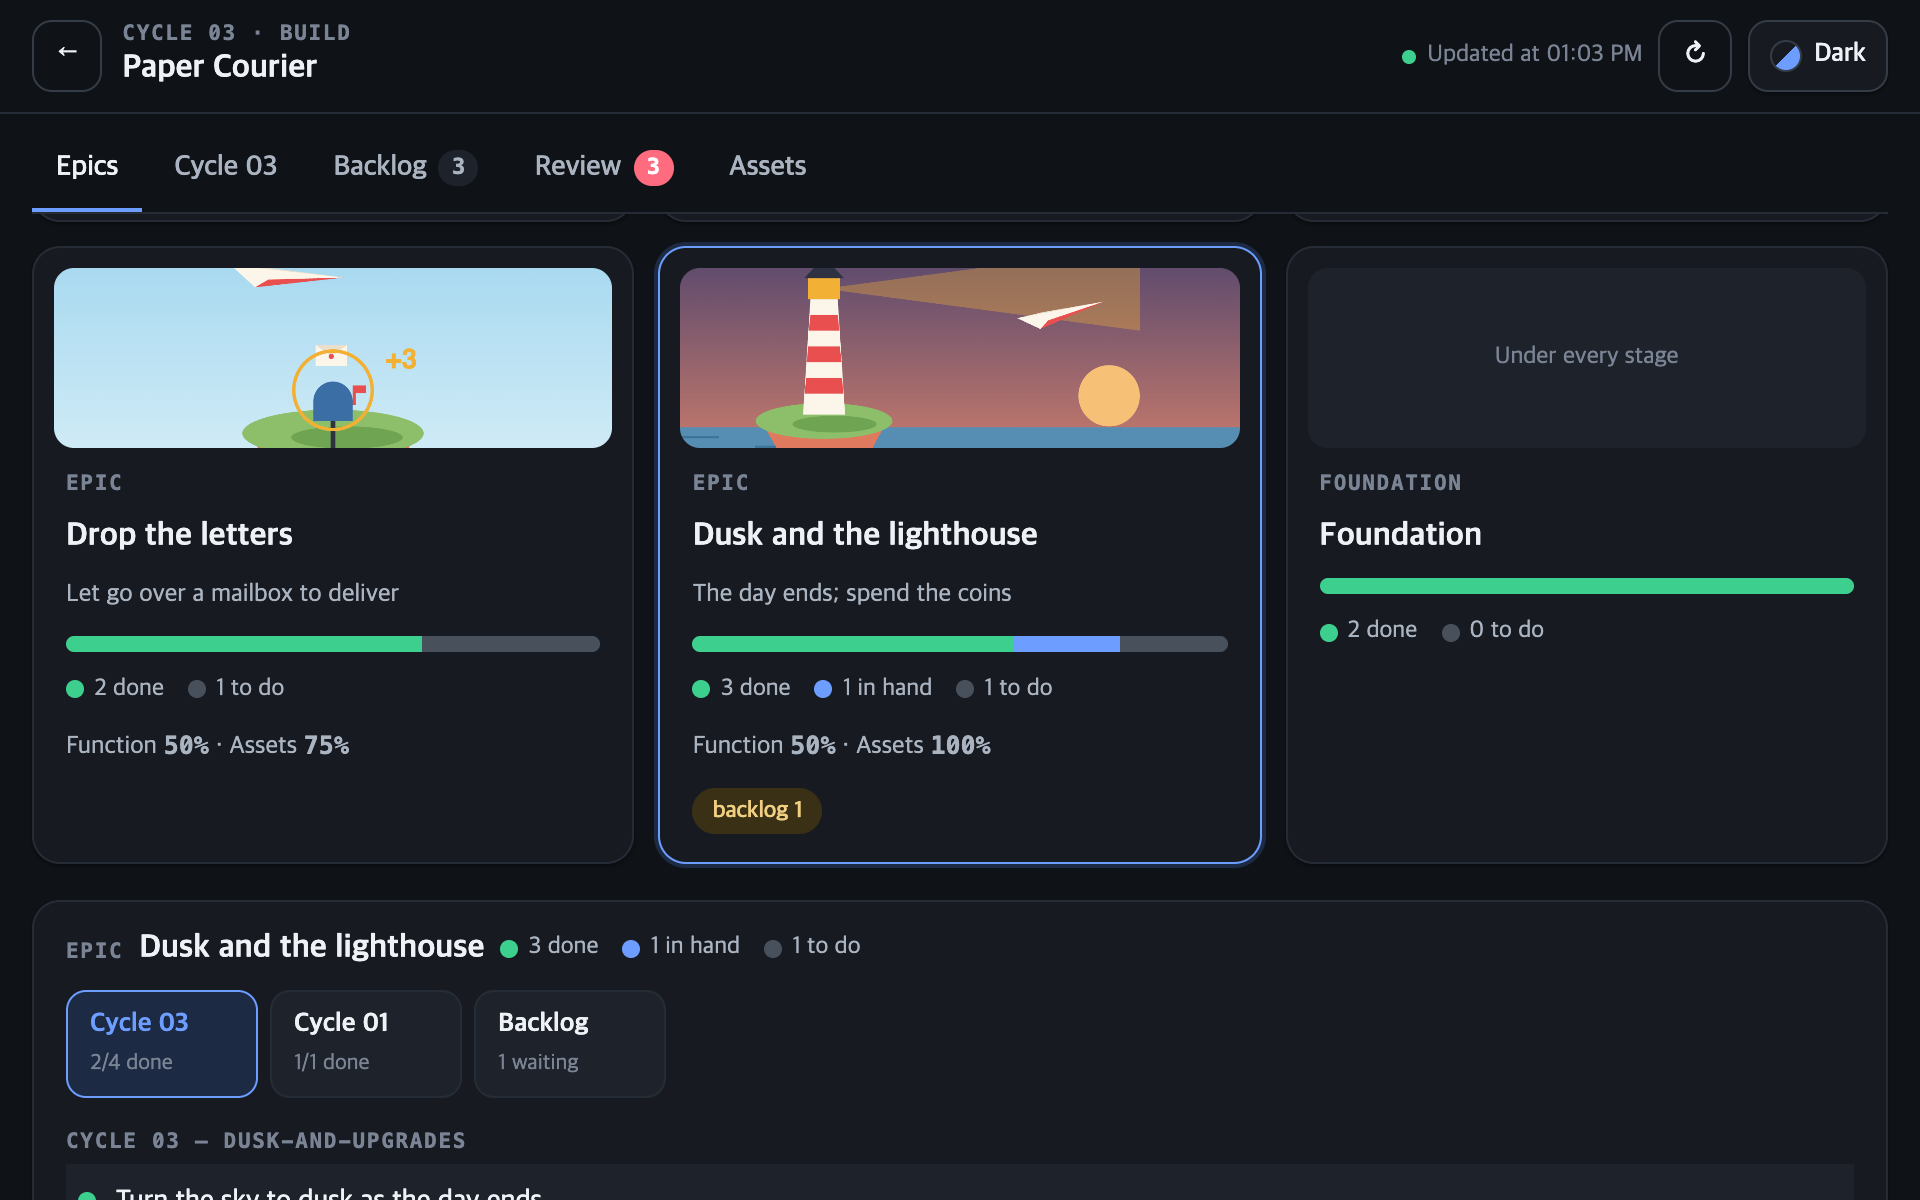
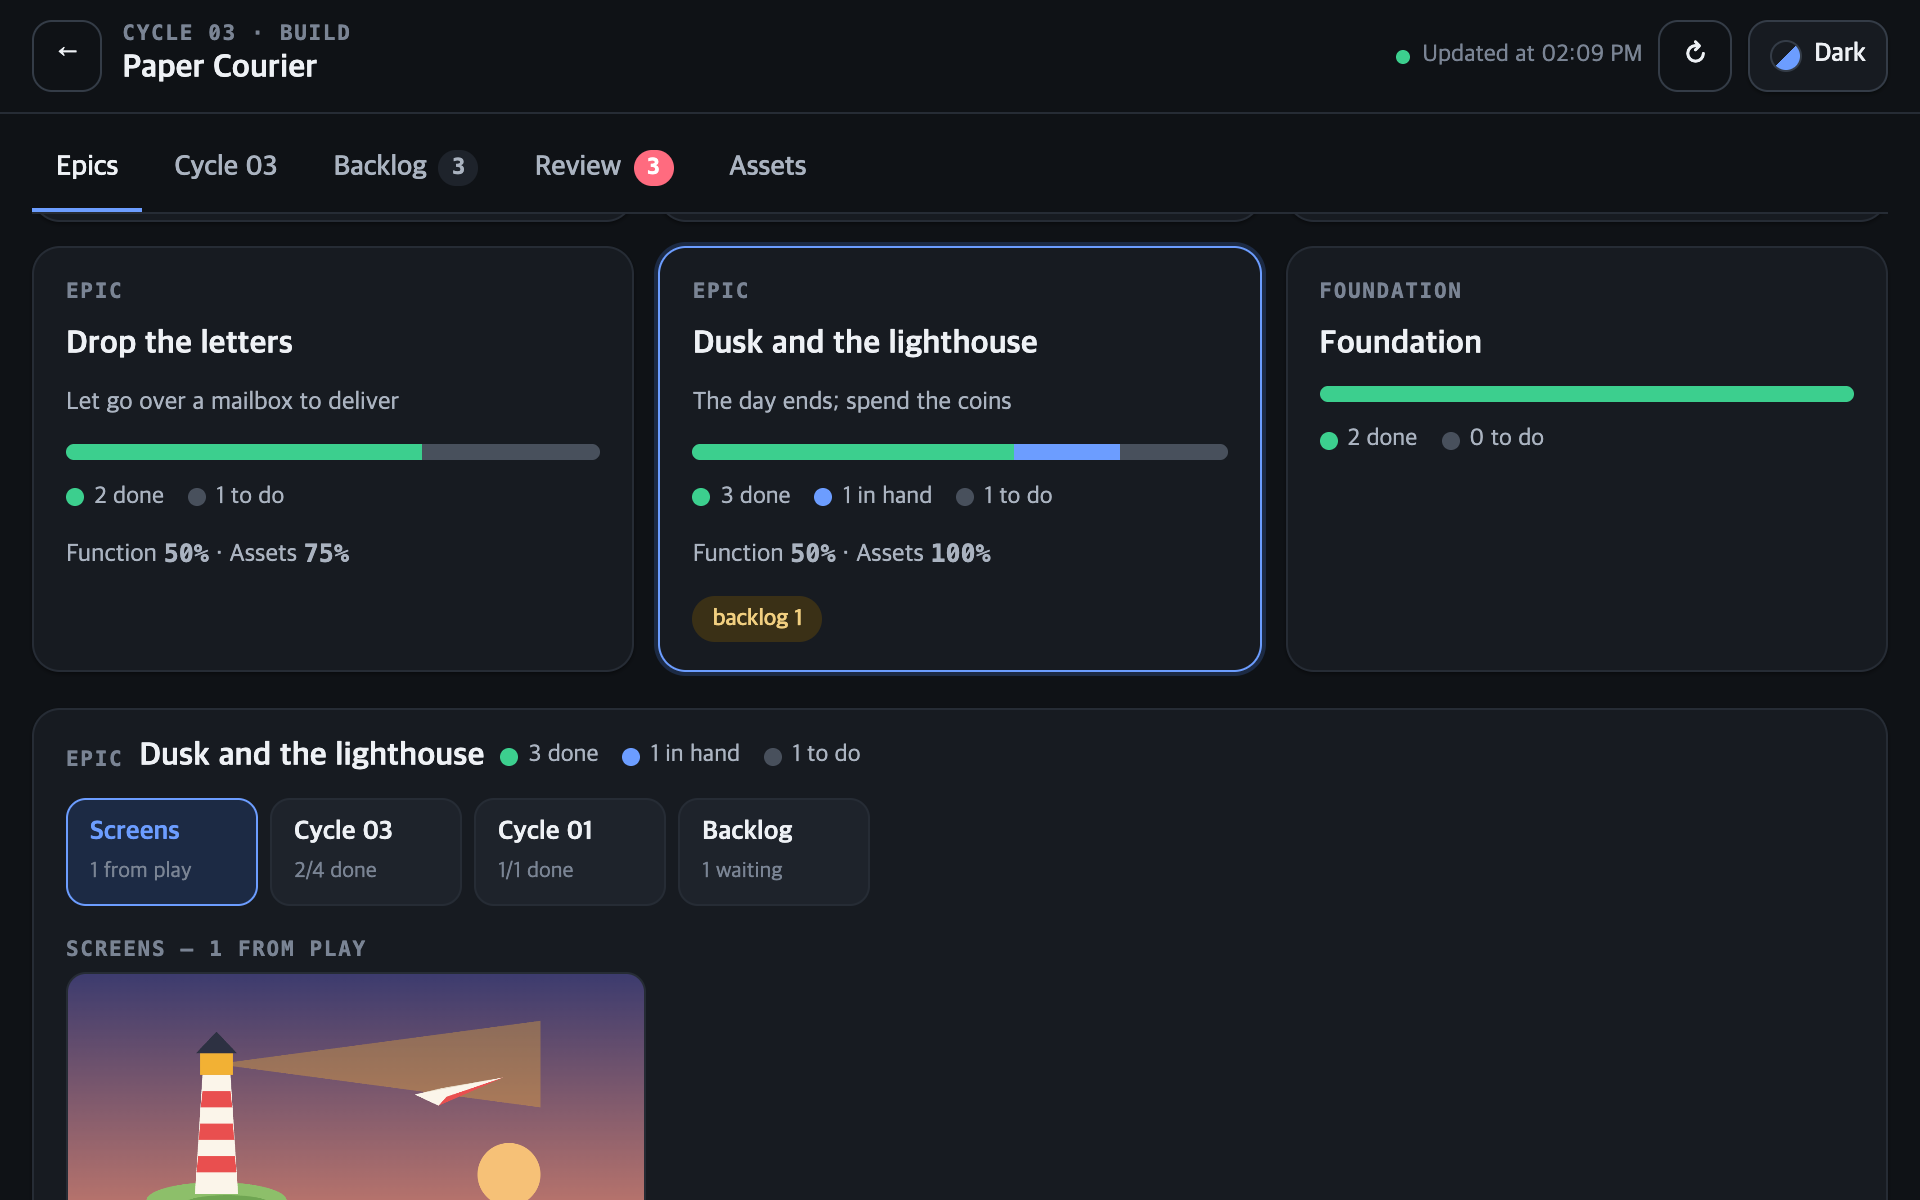
Landing: an epic's screens from play; the epic cards carry no picture now

diff --git a/app/content.ts b/app/content.ts
@@ -55,7 +55,10 @@ const en = {
         alt: "The dashboard home: three games, what waits on you in each, and how far each has come" },
       { img: "/board-epics.png", title: "The game as epics",
         text: "Each part the player meets is an epic. Open one and its tasks line up by cycle.",
-        alt: "The Epics tab: epic cards with their screens and task counts, one opened below with its cycles in a row and that cycle's tasks" },
+        alt: "The Epics tab: epic cards with their task counts, one opened below with its cycles in a row and that cycle's tasks" },
+      { img: "/board-screens.png", title: "See each epic in play",
+        text: "The screens every cycle took of it, newest first — what that part of the game looks like now, and before.",
+        alt: "An epic's Screens tab: two screens from play, each with the cycle that took it" },
       { img: "/board-cycle.png", title: "Each cycle as a board",
         text: "The cycle's goal and stage on top, its tasks in to do, in hand, blocked and done.",
         alt: "The Cycle tab: the cycle's goal and its six stages, then its tasks in four columns" },
@@ -162,7 +165,10 @@ const ko: Copy = {
         alt: "대시보드 첫 화면: 게임 세 개, 게임마다 나를 기다리는 것과 진행 정도" },
       { img: "/board-epics.png", title: "게임을 에픽으로",
         text: "플레이어가 만나는 부분 하나가 에픽 하나입니다. 열면 그 에픽의 태스크가 사이클별로 놓입니다.",
-        alt: "에픽 탭: 화면과 태스크 수가 붙은 에픽 카드, 그 아래 연 에픽의 사이클 줄과 그 사이클의 태스크" },
+        alt: "에픽 탭: 태스크 수가 붙은 에픽 카드, 그 아래 연 에픽의 사이클 줄과 그 사이클의 태스크" },
+      { img: "/board-screens.png", title: "에픽을 플레이 화면으로",
+        text: "사이클마다 찍은 그 에픽의 화면을 최신순으로 — 지금 모습과 지난 모습을 봅니다.",
+        alt: "에픽의 Screens 탭: 플레이 화면 두 장과 각각을 찍은 사이클" },
       { img: "/board-cycle.png", title: "사이클은 보드로",
         text: "위에는 사이클의 목표와 단계, 아래에는 할 일·진행 중·막힘·끝으로 나뉜 태스크.",
         alt: "사이클 탭: 사이클의 목표와 여섯 단계, 그 아래 네 칸으로 나뉜 태스크" },
